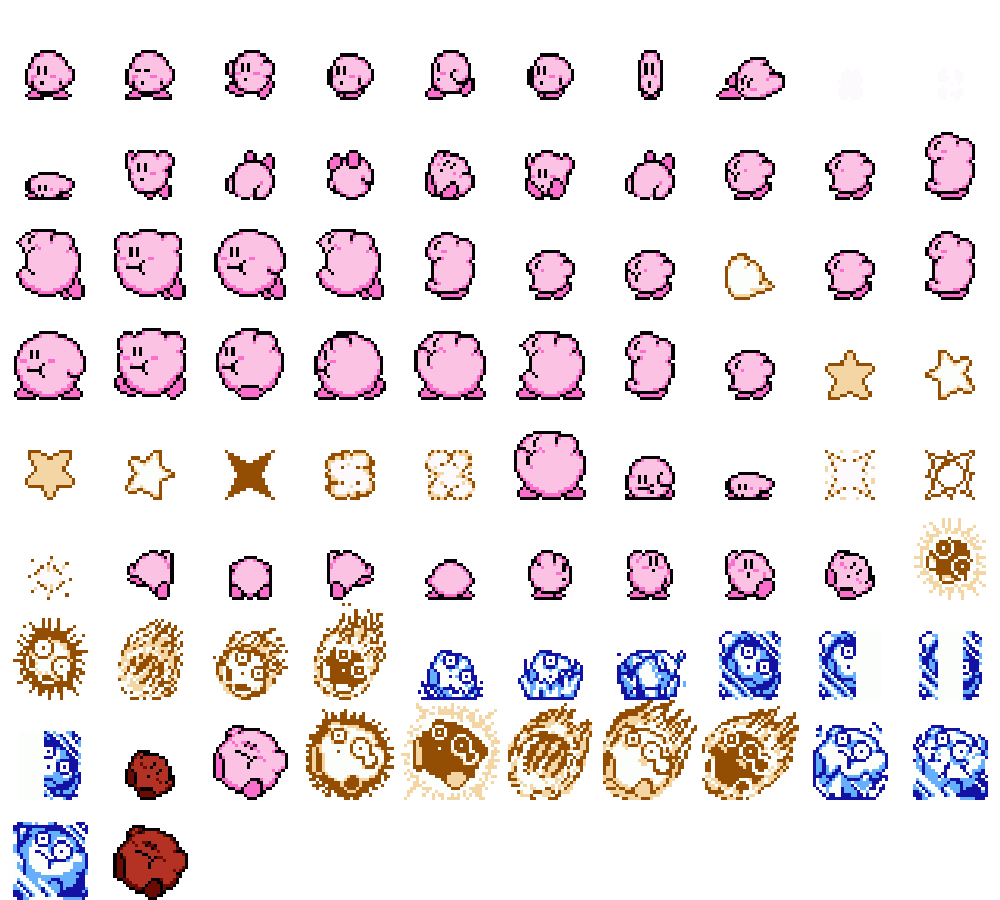
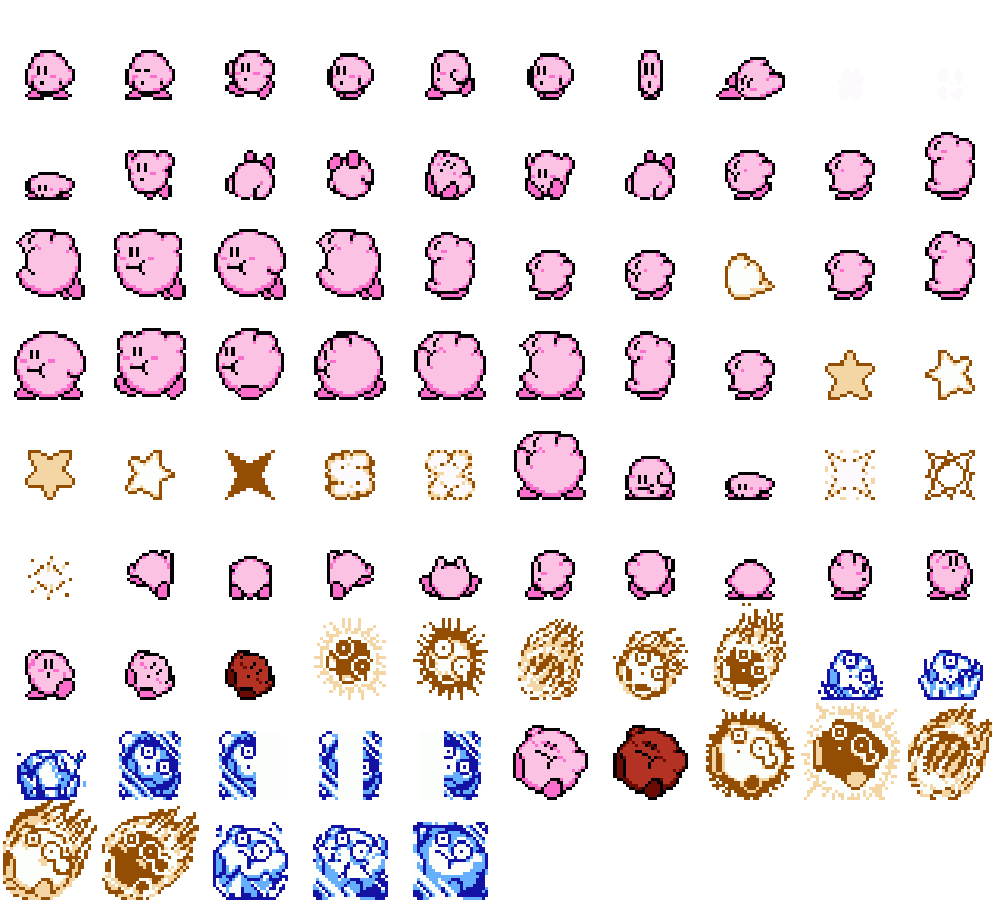
최예나 : 이미지 수정 및 애니메이션 수정

Changed region(s): [[0.0, 0.56, 0.992, 1.0], [0.0, 0.6844, 0.093, 0.7778], [0.124, 0.6844, 0.186, 0.7778]]

diff --git a/WinAPI_Portfolio/ContentsProject/Player.cpp b/WinAPI_Portfolio/ContentsProject/Player.cpp
@@ -193,12 +193,12 @@ void APlayer::SetAnimation()
 	PlayerRenderer->CreateAnimation("JumpFull_Right", "Kirby_Normal_Right.png", { 31, 32, 31 }, 0.1f, false);
 
 	// FLY_UNFULLED
-	PlayerRenderer->CreateAnimation("FlyStart_Left", "Kirby_Normal_Left.png", 17, 21, 0.07f, false);
-	PlayerRenderer->CreateAnimation("FlyStart_Right", "Kirby_Normal_Right.png", 17, 21, 0.07f, false);
+	PlayerRenderer->CreateAnimation("FlyStart_Left", "Kirby_Normal_Left.png", 17, 21, 0.04f, false);
+	PlayerRenderer->CreateAnimation("FlyStart_Right", "Kirby_Normal_Right.png", 17, 21, 0.04f, false);
 	PlayerRenderer->CreateAnimation("Flying_Left", "Kirby_Normal_Left.png", 21, 22, 0.7f);
 	PlayerRenderer->CreateAnimation("Flying_Right", "Kirby_Normal_Right.png", 21, 22, 0.7f);
-	PlayerRenderer->CreateAnimation("FlyEnd_Left", "Kirby_Normal_Left.png", 23, 26, 0.07f, false);
-	PlayerRenderer->CreateAnimation("FlyEnd_Right", "Kirby_Normal_Right.png", 23, 26, 0.07f, false);
+	PlayerRenderer->CreateAnimation("FlyEnd_Left", "Kirby_Normal_Left.png", 23, 26, 0.05f, false);
+	PlayerRenderer->CreateAnimation("FlyEnd_Right", "Kirby_Normal_Right.png", 23, 26, 0.05f, false);
 
 	// FALL_UNFULLED
 	// PlayerRenderer->SetSprite("Kirby_Normal_Left.png", 15);
@@ -217,8 +217,8 @@ void APlayer::SetAnimation()
 	// PlayerRenderer->SetSprite("Kirby_Normal_Right.png", 7);
 
 	// Climb
-	PlayerRenderer->CreateAnimation("ClimbUp_Left", "Kirby_Normal_Left.png", { 51, 52, 53, 52 }, 0.3f);
-	PlayerRenderer->CreateAnimation("ClimbUp_Right", "Kirby_Normal_Right.png", { 51, 52, 53, 52 }, 0.3f);
+	PlayerRenderer->CreateAnimation("ClimbUp_Left", "Kirby_Normal_Left.png", { 51, 52, 53, 52 }, 0.07f);
+	PlayerRenderer->CreateAnimation("ClimbUp_Right", "Kirby_Normal_Right.png", { 51, 52, 53, 52 }, 0.07f);
 	// PlayerRenderer->SetSprite("Kirby_Normal_Left.png", 52);
 
 	// Eat
@@ -226,22 +226,22 @@ void APlayer::SetAnimation()
 	PlayerRenderer->CreateAnimation("Eat_Right", "Kirby_Normal_Right.png", 45, 47, 0.1f, false);
 
 	// Inhale
-	PlayerRenderer->CreateAnimation("InhaleStart_Left", "Kirby_Normal_Left.png", 28, 29, 0.1f, false);
-	PlayerRenderer->CreateAnimation("InhaleStart_Right", "Kirby_Normal_Right.png", 28, 29, 0.1f, false);
-	PlayerRenderer->CreateAnimation("InhaleEnd_Left", "Kirby_Normal_Left.png", 24, 26, 0.1f, false);
-	PlayerRenderer->CreateAnimation("InhaleEnd_Right", "Kirby_Normal_Right.png", 24, 26, 0.1f, false);
+	PlayerRenderer->CreateAnimation("InhaleStart_Left", "Kirby_Normal_Left.png", 28, 29, 0.07f, false);
+	PlayerRenderer->CreateAnimation("InhaleStart_Right", "Kirby_Normal_Right.png", 28, 29, 0.07f, false);
+	PlayerRenderer->CreateAnimation("InhaleEnd_Left", "Kirby_Normal_Left.png", 24, 26, 0.05f, false);
+	PlayerRenderer->CreateAnimation("InhaleEnd_Right", "Kirby_Normal_Right.png", 24, 26, 0.05f, false);
 
 	// Spit
 	PlayerRenderer->CreateAnimation("Spit_Left", "Kirby_Normal_Left.png", 34, 37, 0.1f, false);
 	PlayerRenderer->CreateAnimation("Spit_Right", "Kirby_Normal_Right.png", 34, 37, 0.1f, false);
 
 	// HURT_UNFULLED
-	PlayerRenderer->CreateAnimation("Hurt_Left", "Kirby_Normal_Left.png", { 58, 71 }, 0.05f);
-	PlayerRenderer->CreateAnimation("Hurt_Right", "Kirby_Normal_Right.png", { 58, 71 }, 0.05f);
+	PlayerRenderer->CreateAnimation("Hurt_Left", "Kirby_Normal_Left.png", 61, 62, 0.05f);
+	PlayerRenderer->CreateAnimation("Hurt_Right", "Kirby_Normal_Right.png", 61, 62, 0.05f);
 
 	// HURT_FULLED
-	PlayerRenderer->CreateAnimation("HurtFull_Left", "Kirby_Normal_Left.png", {72, 81 }, 0.05f);
-	PlayerRenderer->CreateAnimation("HurtFull_Right", "Kirby_Normal_Right.png", { 72, 81 }, 0.05f);
+	PlayerRenderer->CreateAnimation("HurtFull_Left", "Kirby_Normal_Left.png", 75, 76, 0.05f);
+	PlayerRenderer->CreateAnimation("HurtFull_Right", "Kirby_Normal_Right.png", 75, 76, 0.05f);
 
 	// Beam
 	PlayerRenderer->CreateAnimation("Beam_Left", "Kirby_Ability_Left.png", 0, 1, 0.05f);
@@ -255,12 +255,17 @@ void APlayer::SetAnimation()
 	PlayerRenderer->CreateAnimation("Fire_Left", "Kirby_Ability_Left.png", 9, 10, 0.05f);
 	PlayerRenderer->CreateAnimation("Fire_Right", "Kirby_Ability_Right.png", 9, 10, 0.05f);
 
+	// Enter NectStage
+	PlayerRenderer->CreateAnimation("Fire_Left", "Kirby_Ability_Left.png", 9, 10, 0.05f);
+	PlayerRenderer->CreateAnimation("Fire_Right", "Kirby_Ability_Right.png", 9, 10, 0.05f);
+
 	PlayerRenderer->ChangeAnimation("Idle_Right");
 }
 
 void APlayer::SetAnimDir()
 {
-	if (EPlayerState::SLIDE != CurState && EPlayerState::SKILL != CurState)
+	if (EPlayerState::SLIDE != CurState && EPlayerState::SKILL != CurState
+		&& EPlayerState::HURT != CurState)
 	{
 		if (UEngineInput::GetInst().IsPress(VK_LEFT))
 		{
@@ -298,18 +303,18 @@ void APlayer::SetPlayerCollision()
 	SlideRightCollision->SetCollisionType(ECollisionType::Rect);
 	SlideRightCollision->SetActive(false);
 
-	// SkillBox Left Collision
+	// InhaleBox Left Collision
 	InhaleBoxLeftCollision = CreateDefaultSubObject<U2DCollision>();
-	InhaleBoxLeftCollision->SetComponentLocation({ PlayerScale.X * -1.0f , PlayerScale.Y * -0.3f});
-	InhaleBoxLeftCollision->SetComponentScale({ 160, 80 });
+	InhaleBoxLeftCollision->SetComponentLocation({ PlayerScale.X * -1.0f , PlayerScale.Y * -0.35f});
+	InhaleBoxLeftCollision->SetComponentScale({ 160, 60 });
 	InhaleBoxLeftCollision->SetCollisionGroup(ECollisionGroup::INHALEBOX);
 	InhaleBoxLeftCollision->SetCollisionType(ECollisionType::Rect);
 	InhaleBoxLeftCollision->SetActive(false);
 	 
-	// SkillBox Right Collision
+	// InhaleBox Right Collision
 	InhaleBoxRightCollision = CreateDefaultSubObject<U2DCollision>();
-	InhaleBoxRightCollision->SetComponentLocation({ PlayerScale.X * 1.0f , PlayerScale.Y * -0.3f });
-	InhaleBoxRightCollision->SetComponentScale({ 160, 80 });
+	InhaleBoxRightCollision->SetComponentLocation({ PlayerScale.X * 1.0f , PlayerScale.Y * -0.35f});
+	InhaleBoxRightCollision->SetComponentScale({ 160, 60 });
 	InhaleBoxRightCollision->SetCollisionGroup(ECollisionGroup::INHALEBOX);
 	InhaleBoxRightCollision->SetCollisionType(ECollisionType::Rect);
 	InhaleBoxRightCollision->SetActive(false);
@@ -478,8 +483,8 @@ void APlayer::GetBackgroundImage(std::string_view _BackImage, std::string_view _
 
 void APlayer::SetAdjustSize()
 {
-	if (!IsFull && EPlayerState::FLYSTART != CurState 
-		&& EPlayerState::FLY != CurState && EPlayerState::FLYEND != CurState)
+	if (!IsFull && EPlayerState::FLYSTART != CurState && EPlayerState::FLY != CurState 
+		&& EPlayerState::FLYEND != CurState && EPlayerState::INHALE != CurState)
 	{
 		AdjustValue = { 0.25f, 0.5f };
 		AdjustScale = { 50, 50 };
@@ -498,6 +503,27 @@ void APlayer::DrawDebugPoint(FVector2D _Point)
 	PlayerTransform.Location += _Point - GetWorld()->GetCameraPos();
 	PlayerTransform.Scale = { 6, 6 };
 	UEngineDebug::CoreDebugRender(PlayerTransform, UEngineDebug::EDebugPosType::Circle);
+}
+
+bool APlayer::DownColorCheck(FVector2D _Power, UColor _Color)
+{
+	FVector2D LeftBottomPoint = FVector2D({ PlayerScale.X * -AdjustValue.X, 0.0f });
+	FVector2D RightBottomPoint = FVector2D({ PlayerScale.X * AdjustValue.X, 0.0f });
+
+	DrawDebugPoint(RightBottomPoint);
+	DrawDebugPoint(LeftBottomPoint);
+
+	for (float i = 0.0f; i <= (RightBottomPoint.X - LeftBottomPoint.X); i++)
+	{
+		FVector2D Point = GetActorLocation() + FVector2D{ (RightBottomPoint.X - i), RightBottomPoint.Y };
+		FVector2D NextPoint = Point + _Power;
+		UColor CheckColor = ColliderImage->GetColor(NextPoint, UColor::MAGENTA);
+		if (_Color.operator==(CheckColor))
+		{
+			return true;
+		}
+	}
+	return false;
 }
 
 bool APlayer::PixelPointCheck(ECheckDir _Dir, UColor _Color)

diff --git a/WinAPI_Portfolio/ContentsProject/PlayerState.cpp b/WinAPI_Portfolio/ContentsProject/PlayerState.cpp
@@ -37,8 +37,9 @@ void PlayerState::SetLimitAccel(bool _IsDeAcc, float MaxSpeed)
 
 void PlayerState::Gravity(float _DeltaTime)
 {
-	if (!PixelLineCheck(ECheckDir::DOWN, UColor::MAGENTA) && !PixelLineCheck(ECheckDir::DOWN, UColor::BLACK)
-		&& !PixelPointCheck(ECheckDir::DOWN, UColor::YELLOW))
+	FVector2D Power = GravityForce * _DeltaTime;
+	if (!Player->DownColorCheck(Power, UColor::MAGENTA) && !Player->DownColorCheck(Power, UColor::BLACK)
+		&& !Player->DownColorCheck(Power, UColor::YELLOW))
 	{
 		AddActorLocation(GravityForce * _DeltaTime);
 		GravityForce += FVector2D::DOWN * GravityPower * _DeltaTime;
@@ -241,7 +242,6 @@ void PlayerState::Jump(float _DeltaTime)
 {
 	ChangeFly();
 	ChangeAttack();
-
 	// Jumping
 	{
 		FVector2D Vector = FVector2D::UP;
@@ -256,20 +256,18 @@ void PlayerState::Jump(float _DeltaTime)
 		}
 		DirForce.Normalize();
 		AddActorLocation(Vector * JumpPower * _DeltaTime);
+	}
 
-		if (PixelLineCheck(ECheckDir::DOWN, UColor::MAGENTA) || PixelLineCheck(ECheckDir::UP, UColor::MAGENTA)
-			|| PixelLineCheck(ECheckDir::DOWN, UColor::BLACK) || PixelLineCheck(ECheckDir::DOWN, UColor::YELLOW))
-		{
-			SetPlayerState(EPlayerState::IDLE);
-			return;
-		}
+	if (PixelPointCheck(ECheckDir::UP, UColor::MAGENTA) 
+		|| Player->DownColorCheck((GravityForce + FVector2D::DOWN) * _DeltaTime, UColor::MAGENTA))
+	{
+		SetPlayerState(EPlayerState::IDLE);
+		return;
 	}
 }
 
 void PlayerState::FlyStart(float _DeltaTime)
 {
-	ChangeAnimation("FlyStart");
-
 	FVector2D Vector = FVector2D::ZERO;
 
 	if (IsPressKey(VK_UP))
@@ -301,6 +299,7 @@ void PlayerState::FlyStart(float _DeltaTime)
 
 void PlayerState::Fly(float _DeltaTime)
 {
+	ChangeAnimation("Flying");
 	ChangeAnimation("Flying");
 
 	if (IsPressKey('X'))
@@ -501,7 +500,7 @@ void PlayerState::ClimbStart(float _DeltaTime)
 	}
 	else
 	{
-		Player->GetPlayerRenderer()->SetSprite("Kirby_Normal_Left.png", 52);
+		Player->GetPlayerRenderer()->SetSprite("Kirby_Normal_Left.png", 54);
 	}
 
 	if (IsPressKey(VK_DOWN))
@@ -655,9 +654,9 @@ void PlayerState::Spit(float _DeltaTime)
 
 void PlayerState::BeamStart(float _DeltaTime)
 {
+	Gravity(_DeltaTime);
 	ChangeAnimation("Beam");
 	Player->SpawnBeam();
-	Gravity(_DeltaTime);
 	SetPlayerState(EPlayerState::SKILL);
 	return;
 }
@@ -666,7 +665,7 @@ void PlayerState::Beam(float _DeltaTime)
 {
 	CurTime += _DeltaTime;
 
-	if (CurTime >= 0.18f)
+	if (CurTime >= 0.38f)
 	{
 		CurTime = 0.0f;
 		SetPlayerState(EPlayerState::IDLE);
@@ -789,6 +788,7 @@ void PlayerState::ChangeFly()
 	if (IsPressKey(VK_UP) && !GetPlayerFull())
 	{
 		ResetDirForce();
+		ChangeAnimation("FlyStart");
 		SetPlayerState(EPlayerState::FLYSTART);
 		return;
 	}

diff --git a/WinAPI_Portfolio/ContentsProject/Player.h b/WinAPI_Portfolio/ContentsProject/Player.h
@@ -77,6 +77,7 @@ public:
 
 	void SetAdjustSize();
 	void DrawDebugPoint(FVector2D _Point);
+	bool DownColorCheck(FVector2D _Power, UColor _Color);	// GroundCheck for Gravity
 	bool PixelPointCheck(ECheckDir _Dir, UColor _Color);
 	bool PixelLineCheck(ECheckDir _Dir, UColor _Color);
 

diff --git a/WinAPI_Portfolio/ContentsProject/Ability.cpp b/WinAPI_Portfolio/ContentsProject/Ability.cpp
@@ -10,10 +10,7 @@ AAbility::AAbility()
 {
 	AbilityRenderer = CreateDefaultSubObject<USpriteRenderer>();
 	AbilityRenderer->SetOrder(ERenderOrder::HUITEXT);
-	AbilityRenderer->SetCamera
-	
-	
-	(false);
+	AbilityRenderer->SetCameraEffect(false);
 }
 
 AAbility::~AAbility()

diff --git a/WinAPI_Portfolio/ContentsProject/WaddleBeam.h b/WinAPI_Portfolio/ContentsProject/WaddleBeam.h
@@ -50,7 +50,7 @@ private:
 	std::string AnimDir = "_Left";
 	FVector2D Dir = FVector2D::ZERO;
 	FVector2D ArrDir[static_cast<int>(Phase::Phase06)];
-	float InterTime = 0.2f;
+	float InterTime = 0.1f;
 	float Time = InterTime;
 	Phase PhaseValue = Phase::Phase01;
 };
